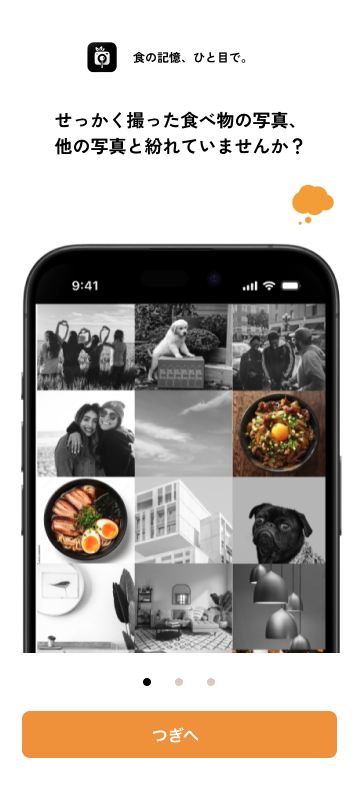
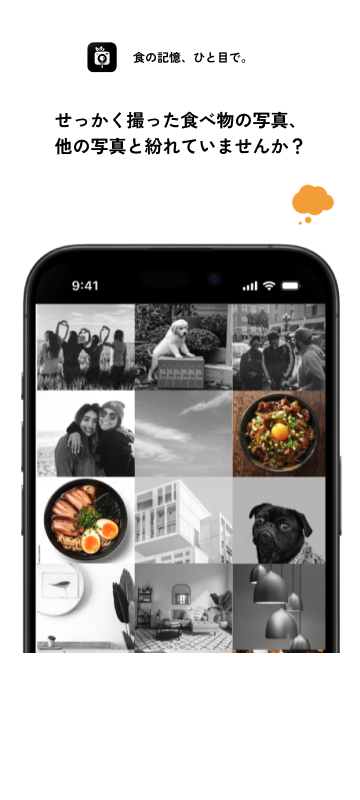
ボタンとインジケーター修正

Changed region(s): [[0.0611, 0.8438, 0.9472, 0.9688]]

diff --git a/lib/view/onboarding_page.dart b/lib/view/onboarding_page.dart
@@ -1,12 +1,13 @@
 import 'package:flutter/material.dart';
 import 'package:flutter_riverpod/flutter_riverpod.dart';
+import 'package:smooth_page_indicator/smooth_page_indicator.dart';
 
-import '../core/build_context_extension.dart';
 import '../core/shared_preferences_service.dart';
+import '../core/themes.dart';
 
 /// オンボーディング完了フラグ用[StateProvider]
 ///
-///  外部から更新をすることで[SharedPreferencesService]側の値も更新する。
+/// 外部から更新をすることで[SharedPreferencesService]側の値も更新する。
 final isOnBoardingCompletedProvider = StateProvider<bool>((ref) {
   final sharedPreferencesService = ref.watch(sharedPreferencesServiceProvider);
 
@@ -31,80 +32,141 @@ class OnboardingPage extends ConsumerStatefulWidget {
 }
 
 class _OnboardingPageState extends ConsumerState<OnboardingPage> {
-  late PageController _onboardingController;
+  final PageController _pageController = PageController();
   int currentOnboarding = 0;
 
   @override
   void initState() {
     super.initState();
-    // 初期化
-    _onboardingController = PageController()
-      ..addListener(() {
-        final page = _onboardingController.page!.round();
-        setState(() {
-          currentOnboarding = page;
-        });
+    _pageController.addListener(() {
+      final page = _pageController.page!.round();
+      setState(() {
+        currentOnboarding = page;
       });
+    });
   }
 
   @override
   Widget build(BuildContext context) {
-    final isLastOnboarding = currentOnboarding == 2;
+    final isLastPage = currentOnboarding == 2; // 最後のページ判定
 
-    return GestureDetector(
-      onTap: isLastOnboarding
-          ? () {
-              ref
-                  .read(isOnBoardingCompletedProvider.notifier)
-                  .update((state) => true);
-            }
-          : () {
-              _onboardingController.nextPage(
-                duration: const Duration(milliseconds: 300),
-                curve: Curves.linear,
-              );
+    return Scaffold(
+      body: Stack(
+        children: <Widget>[
+          PageView(
+            controller: _pageController, // PageControllerをPageViewに接続
+            onPageChanged: (int page) {
+              setState(() {
+                currentOnboarding = page;
+              });
             },
-      child: SizedBox(
-        width: context.screenWidth,
-        height: context.screenHeight,
-        child: Column(
-          children: [
-            Flexible(
-              child: PageView(
-                controller: _onboardingController,
-                children: const <Widget>[
-                  _OnboardingContent(
-                    imagePath: 'assets/images/new_onboarding1.png',
+            children: <Widget>[
+              Container(
+                decoration: BoxDecoration(
+                  image: DecorationImage(
+                    image: AssetImage('assets/images/new_onboarding1.png'),
+                    fit: BoxFit.cover,
                   ),
-                  _OnboardingContent(
-                    imagePath: 'assets/images/new_onboarding2.png',
-                  ),
-                  _OnboardingContent(
-                    imagePath: 'assets/images/new_onboarding3.png',
-                  ),
-                ],
+                ),
               ),
+              Container(
+                decoration: BoxDecoration(
+                  image: DecorationImage(
+                    image: AssetImage('assets/images/new_onboarding2.png'),
+                    fit: BoxFit.cover,
+                  ),
+                ),
+              ),
+              Container(
+                decoration: BoxDecoration(
+                  image: DecorationImage(
+                    image: AssetImage('assets/images/new_onboarding3.png'),
+                    fit: BoxFit.cover,
+                  ),
+                ),
+              ),
+            ],
+          ),
+          SizedBox(
+            height: 20,
+          ),
+          SafeArea(
+            child: Column(
+              mainAxisAlignment: MainAxisAlignment.end,
+              children: <Widget>[
+                Center(
+                  child: Padding(
+                    padding: const EdgeInsets.only(top: 20.0),
+                    child: SmoothPageIndicator(
+                      controller: _pageController, // PageControllerを渡す
+                      count: 3, // ページの数を3に設定
+                      effect: WormEffect(
+                        dotHeight: 12, // 点の高さを小さくする
+                        dotWidth: 12, // 点の幅を小さくする
+                        spacing: 23,
+                        activeDotColor: Colors.grey[800]!, // アクティブな点の色を濃い灰色にする
+                        dotColor: Colors.grey[400]!, // 非アクティブな点の色を薄い灰色にする
+                      ), // インジケータのエフェクト
+                      onDotClicked: (index) {
+                        _pageController.animateToPage(
+                          index,
+                          duration: Duration(milliseconds: 300),
+                          curve: Curves.easeInOut,
+                        );
+                      },
+                    ),
+                  ),
+                ),
+                SizedBox(height: 28),
+                Padding(
+                  padding: EdgeInsets.symmetric(
+                    horizontal: MediaQuery.of(context).size.width * 0.05,
+                  ),
+                  child: Container(
+                    height: 60, // お好みの高さに設定してください
+                    decoration: BoxDecoration(
+                      color: Themes.mainOrange, // 背景色
+                      borderRadius: BorderRadius.circular(8.0), // 角の丸み
+                    ),
+                    child: InkWell(
+                      onTap: () {
+                        if (!isLastPage) {
+                          _pageController.nextPage(
+                            duration: Duration(milliseconds: 300),
+                            curve: Curves.easeInOut,
+                          );
+                        } else {
+                          ref
+                              .read(isOnBoardingCompletedProvider.notifier)
+                              .update((state) => true);
+                        }
+                      },
+                      child: Row(
+                        children: <Widget>[
+                          Expanded(
+                            child: Align(
+                              alignment: Alignment.center,
+                              child: Text(
+                                isLastPage ? 'はじめる' : 'やってみる',
+                                style: const TextStyle(
+                                  fontSize: 20,
+                                  color: Colors.white,
+                                  fontWeight: FontWeight.bold,
+                                ),
+                              ),
+                            ),
+                          ),
+                        ],
+                      ),
+                    ),
+                  ),
+                ),
+                SizedBox(height: 43),
+              ],
             ),
-          ],
-        ),
+          ),
+        ],
       ),
-    );
-  }
-}
-
-class _OnboardingContent extends StatelessWidget {
-  const _OnboardingContent({
-    required this.imagePath,
-  });
-
-  final String imagePath;
-
-  @override
-  Widget build(BuildContext context) {
-    return SizedBox(
-      width: MediaQuery.of(context).size.width,
-      height: MediaQuery.of(context).size.height,
-      child: Image.asset(imagePath, fit: BoxFit.cover),
     );
   }
 }
